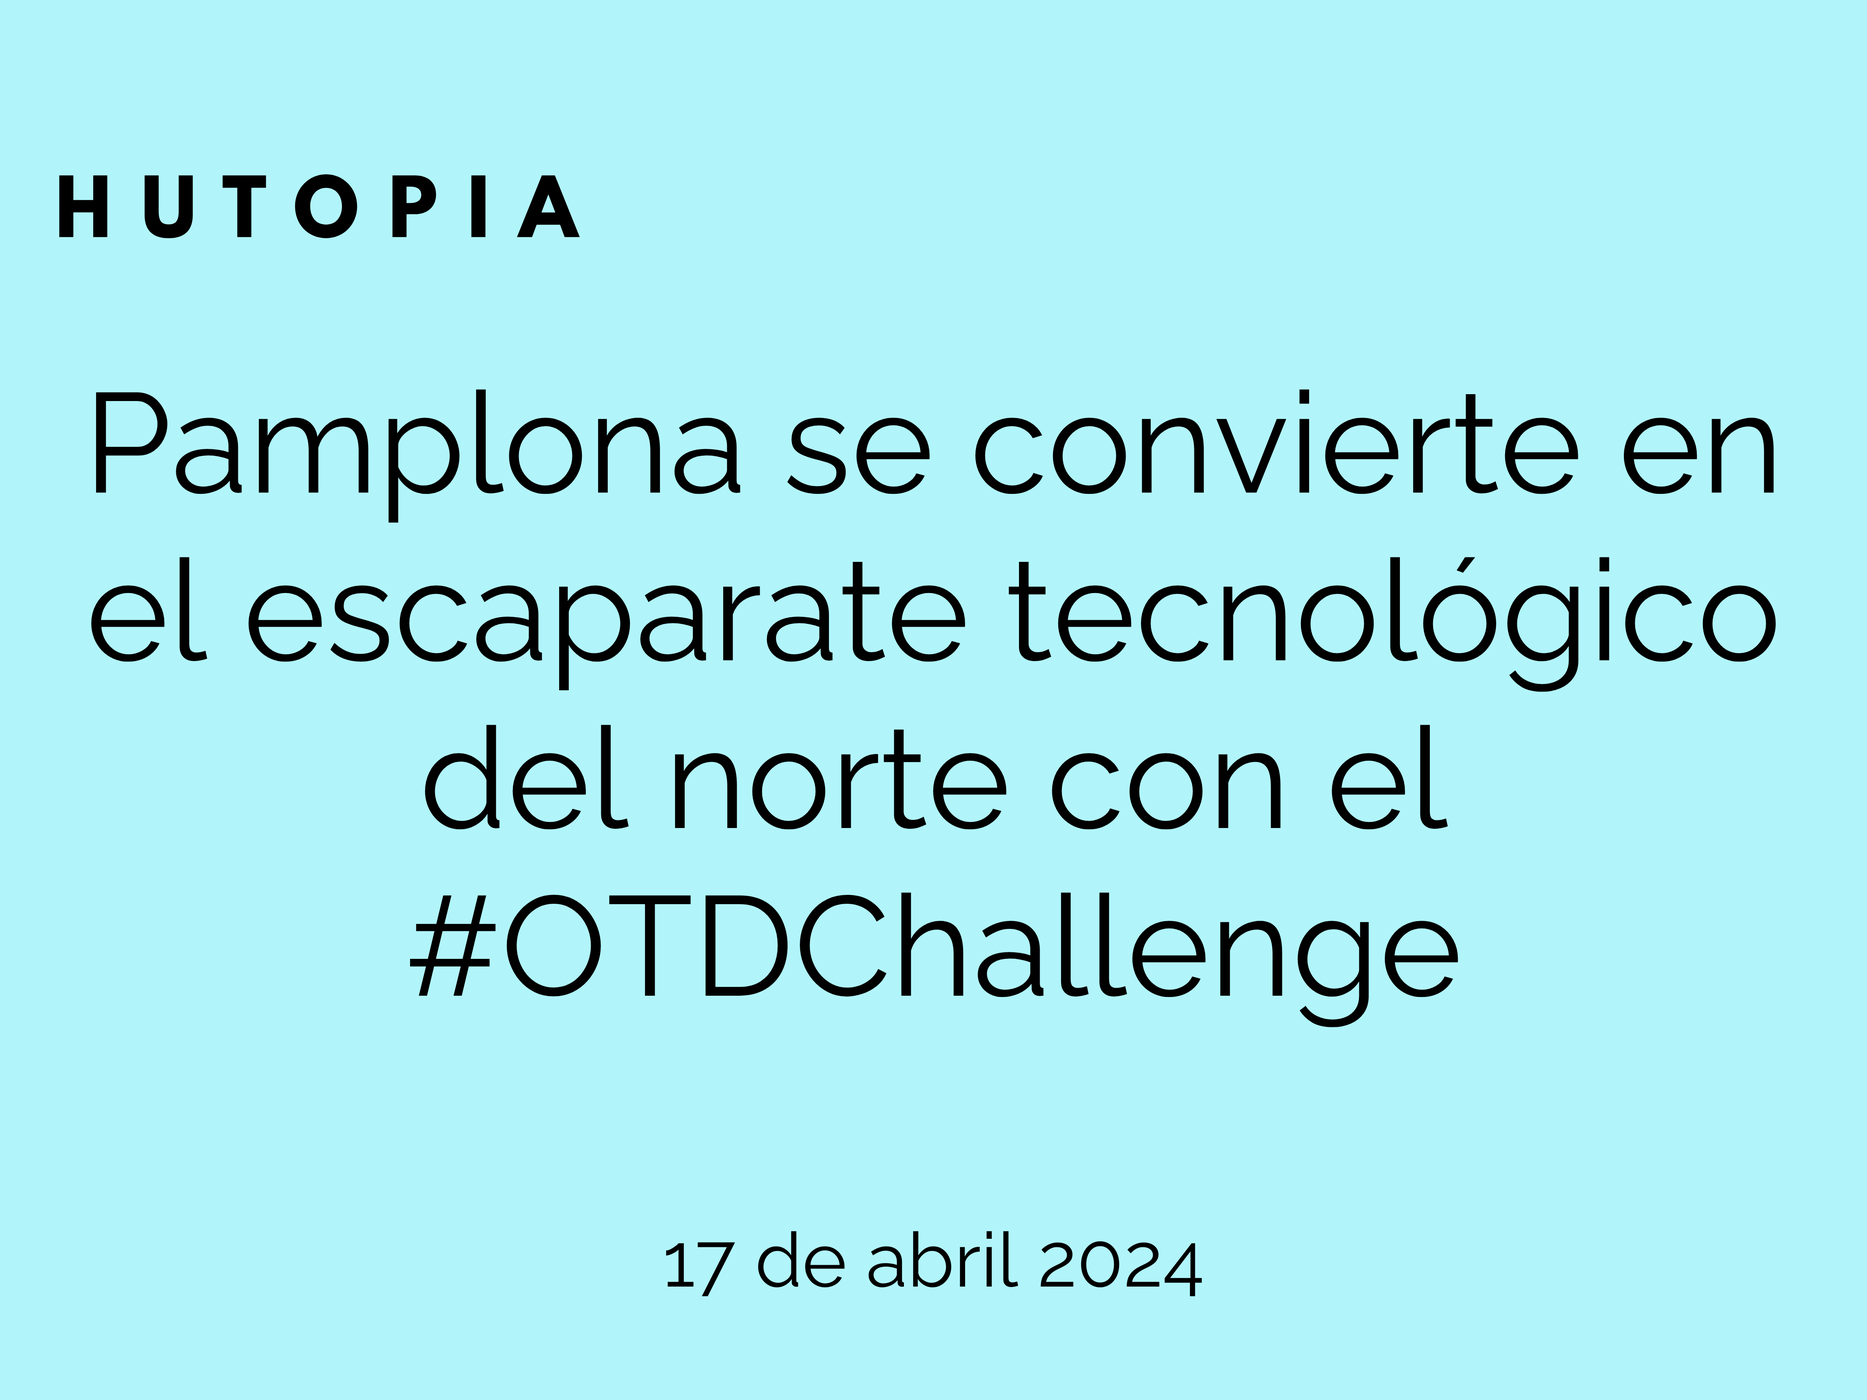
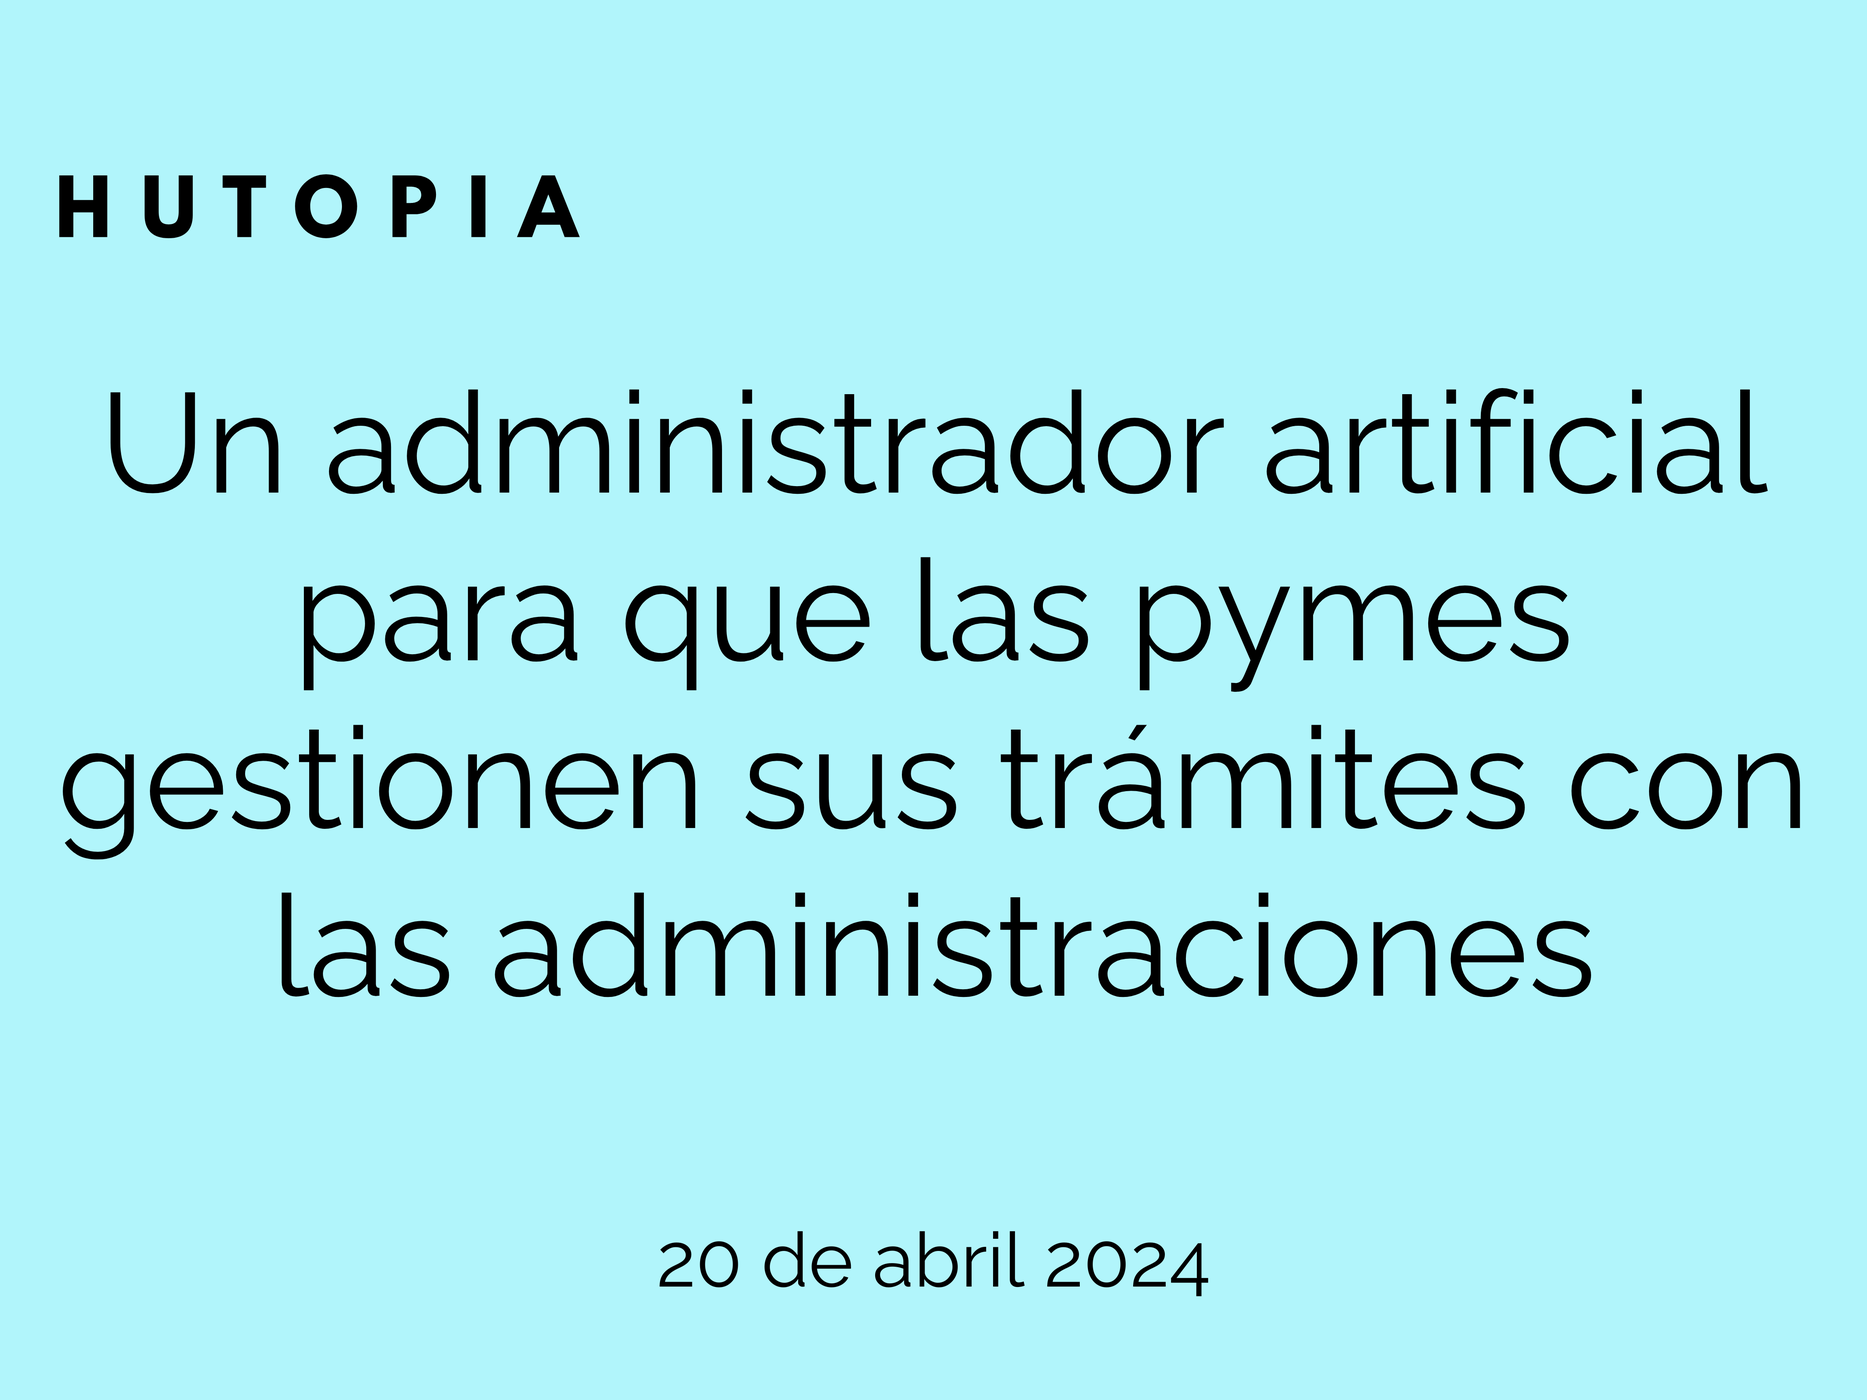
bubble 21

diff --git a/bub.21.html b/bub.21.html
@@ -1,0 +1,330 @@
+<!doctype html>
+<html lang="es">
+    <head>
+        <meta charset="UTF-8">
+        <script src="https://kit.fontawesome.com/e4e5d6c1ee.js" crossorigin="anonymous"></script>
+        <title>HUTOPIA</title>
+        <link href="imagenes/PORFIN.svg" rel="shortcut icon">
+        <link href="imagenes/PORFIN.svg" rel="apple-touch-icon-precomposed">
+        <meta name="description" content="Una red humana para saltar al abismo de la Inteligencia Artificial"/>
+        <link rel="alternate" type="application/rss+xml" title="Feed de HUTOPIA" href="historias.xml">
+        <link rel="icon" href="imagenes/PORFIN.svg" sizes="32x32"/>
+        <link rel="icon" href="imagenes/PORFIN.svg" sizes="192x192"/>
+        <link rel="apple-touch-icon" href="imagenes/PORFIN.svg"/>
+        <meta name="msapplication-TileImage" content="imagenes/Logoicon.gif"/>
+          <link href="1.css" rel="stylesheet"/>
+      <link rel="preconnect" href="https://fonts.googleapis.com">
+<link rel="preconnect" href="https://fonts.gstatic.com" crossorigin>
+<link href="https://fonts.googleapis.com/css2?family=Raleway:ital,wght@0,100;1,100&display=swap" rel="stylesheet">
+        <script id="thesu-ready">
+            window.advanced_ads_ready = function(e, a) {
+                a = a || "complete";
+                var d = function(e) {
+                    return "interactive" === a ? "loading" !== e : "complete" === e
+                };
+                d(document.readyState) ? e() : document.addEventListener("readystatechange", (function(a) {
+                    d(a.target.readyState) && e()
+                }
+                ), {
+                    once: "interactive" === a
+                })
+            }
+            ,
+            window.advanced_ads_ready_queue = window.advanced_ads_ready_queue || [];
+        </script>
+
+<link rel="stylesheet" id="google-fonts-1-css" href="https://fonts.googleapis.com/css?family=Merriweather%3A100%2C100italic%2C200%2C200italic%2C300%2C300italic%2C400%2C400italic%2C500%2C500italic%2C600%2C600italic%2C700%2C700italic%2C800%2C800italic%2C900%2C900italic%7CMerriweather+Sans%3A100%2C100italic%2C200%2C200italic%2C300%2C300italic%2C400%2C400italic%2C500%2C500italic%2C600%2C600italic%2C700%2C700italic%2C800%2C800italic%2C900%2C900italic&#038;display=auto&#038;ver=6.4.3" media="all"/>
+<link rel="preconnect" href="https://fonts.gstatic.com/" crossorigin>
+      
+<script type="text/javascript" src="js/jquery.js" id="jquery-js"></script>
+        
+        
+<script type="text/javascript" src="https://thesummerhunter.com/wp-content/themes/thesummerhunter/js/lib/conditionizr-4.3.0.min.js?ver=4.3.0" id="conditionizr-js"></script>
+<script type="text/javascript" src="https://thesummerhunter.com/wp-content/themes/thesummerhunter/js/lib/modernizr-2.7.1.min.js?ver=2.7.1" id="modernizr-js"></script>
+
+     
+        
+        <script>
+            // conditionizr.com
+            // configure environment tests
+            conditionizr.config({
+                assets: '',
+                tests: {}
+            });
+        </script>
+    </head>
+    
+<!--    CUERPO DE LA PÁGINA-->
+    
+    <body>
+        
+        <div class="nav ">
+            <div class="col-12 center header-content">
+                <div class="col"></div>
+                <div class="col">
+                    <a class="header-logo" href="http://hutopia.es/">
+                        <img class="logo" src="imagenes/PORFIN.svg" alt>
+                    </a>
+                </div>
+                <div class="col"></div>
+            </div>
+        </div>
+<!-- ************************* ----->
+       <div class="menu-button"> <i class="fas fa-bars" style="color: whitesmoke;"></i> </div>
+        <div class="toggle-menu">
+            <div class="mainmenu">
+                <ul id="menu-toggle-top-menu" class="menu">
+                     <li id="vibes" class="menu-item">
+                        <a href="drops.html" target="_blank" >Drops</a>
+                    </li>
+                    <li id="people" class="menu-item">
+                        <a href="wavemakersurfers.html" target="_blank" >Wavemakers &amp; Surfers </a>
+                    </li>
+                    <li id="webstories" class="menu-item">
+                        <a href="bubbles.html" target="_blank" >Bubbles</a>
+                    </li>
+                    <li id="featured" class="menu-item">
+                        <a href="https://open.spotify.com/show/5B7fNyyHK2rpHDeorWufm5" target="_blank" >The Shore</a> </li>
+                    <li id="metaverse" class="menu-item">  <a href="https://www.roblox.com/games/16499004495/" target="_blank" > The Reef</a></li>
+<li id="menu-item-12934" class="menu-item menu-item-type-taxonomy menu-item-object-category menu-item-12933">
+            <a href="pearls.html" target="_blank">Pearls</a></li>
+
+                </ul>
+            </div>
+<div class="col-md-3">
+    <ul class="menu-header social">
+        <li class="social-media">
+            <a href="https://www.instagram.com/hutopia.es?utm_source=ig_web_button_share_sheet&igsh=ZDNlZDc0MzIxNw==" target="_blank" rel="noopener noreferrer">
+                <i class="fab fa-instagram"></i>
+            </a>
+        </li>
+        <li class="social-media">
+            <a href="https://open.spotify.com/show/5B7fNyyHK2rpHDeorWufm5" target="_blank" rel="noopener noreferrer">
+                <i class="fab fa-spotify"></i>
+            </a>
+        </li>
+        <li class="social-media">
+            <a href="https://www.linkedin.com/company/hutopia.es/" target="_blank" rel="noopener noreferrer">
+                <i class="fab fa-linkedin"></i>
+            </a>
+        </li>
+        <li class="social-media">
+            <a href="https://www.facebook.com/profile.php?id=61557282760796 " target="_blank" rel="noopener noreferrer"><i class="fab fa-facebook"></i></a>
+        </li>
+        <li class="social-media">
+            <a href="https://www.tiktok.com/@hutopia.es?is_from_webapp=1&sender_device=pc" target="_blank" rel="noopener noreferrer"><i class="fab fa-tiktok"></i></a>
+        </li>
+        <li class="social-media">
+            <a href="https://x.com/Hutopia_es?s=20" target="_blank" rel="noopener noreferrer"><i class="fa-brands fa-x-twitter"></i></a>
+        </li> 
+    </ul>
+</div>
+        </div>
+  
+<!-- ************************************************************************************************************************************************-->
+            
+<!--<! ---_____________________________ LARGO REPORTAJE _________________________ --->
+            
+<h1 class="col-12 justify-content-center align-items-center" style="margin-top: 230px; font-family: 'Raleway'; line-height: 50px">
+    <span style="font-size: 50px; font-weight: 600">Un administrador artificial para que las pymes gestionen sus trámites con las administraciones
+</span>
+</h1>
+<div class="contenidoprincipal"> 
+    <div class="align-items-center">
+       <p style="font-family: Raleway; font-weight: 600; color: #5284a3; text-align: center">El ministro de Economía, Comercio y Empresa, Carlos Cuerpo, anuncia que el Gobierno español utilizará la IA para potenciar el crecimiento de estas empresas
+</p>
+        </div>
+     
+     <br>
+       
+       <div style="display: flex; align-items: center;">
+           <div class="align-items-left" style="margin-right: 10px;">
+        <figure style="margin: 0;">
+            <img src="Avatar/redacarantxa.JPG" style="width: 70px; height: 100px; margin: 0;">
+        </figure>
+    </div>
+    <div class="align-items-right" style="margin-left: 10px;">
+        <p style="font-family: Raleway, sans-serif; margin: 0; text-align: left;"><strong>Arantxa García</strong></p>
+        <place style="font-family: Raleway, sans-serif; margin: 0;">Madrid |</place>
+        <publishedDate style="font-family: Raleway, sans-serif; margin: 0;">20 de abril de 2024</publishedDate>
+    </div>
+
+    <!-- Red social -->
+    <ul style="list-style: none; display: flex; margin-left: auto; padding: 0;">
+        <li class="social-media">
+            <a href="https://www.facebook.com/profile.php?id=61557282760796" target="_blank" rel="noopener noreferrer">
+                <i class="fab fa-facebook"></i>
+            </a>
+        </li>
+        <li class="social-media">
+            <a href="https://www.linkedin.com/company/hutopia.es/" target="_blank" rel="noopener noreferrer">
+                <i class="fab fa-linkedin"></i>
+            </a>
+        </li>
+        <li class="social-media">
+            <a href="https://open.spotify.com/show/5B7fNyyHK2rpHDeorWufm5" target="_blank" rel="noopener noreferrer">
+                <i class="fab fa-spotify"></i>
+            </a>
+        </li>
+        <li class="social-media">
+            <a href="https://www.instagram.com/hutopia.es?utm_source=ig_web_button_share_sheet&igsh=ZDNlZDc0MzIxNw==" target="_blank" rel="noopener noreferrer">
+                <i class="fab fa-instagram"></i>
+            </a>
+        </li>
+        <li class="social-media">
+            <a href="https://x.com/Hutopia_es?s=20" target="_blank" rel="noopener noreferrer">
+                <i class="fab fa-twitter"></i>
+            </a>
+        </li>
+        <li class="social-media">
+            <a href="https://www.tiktok.com/@hutopia.es?is_from_webapp=1&sender_device=pc" target="_blank" rel="noopener noreferrer">
+                <i class="fab fa-tiktok"></i>
+            </a>
+        </li>
+    </ul>
+</div>
+
+    <hr style="margin-bottom: 10px">  
+
+<p style="margin-top: 45px"> <span class="capitular"> C</span>on motivo de la última reunión de ministros de <strong>Economía y Finanzas de la Unión Europea (UE)</strong>, el ministro español de Economía, Comercio y Empresa,<strong> Carlos Cuerpo</strong>, anunció la intención del Ejecutivo central de promover el uso de la <strong>Inteligencia Artificial (IA)</strong> para “potenciar la competitividad y el crecimiento de las pequeñas y medianas empresas (pymes)”.</p>
+
+ <p>Gracias “a la implementación ética y responsable de la IA”, las pymes podrán beneficiarse de un <strong>administrador artificial</strong>, que asumirá la responsabilidad de manejar los procedimientos y las comunicaciones con las administraciones para que estas empresas “se enfoquen en su actividad principal”. La herramienta, según indicó, tiene el potencial de “incrementar la productividad” en diversos sectores económicos. </p>
+        
+<p>La propuesta está dirigida a promover el uso de esta tecnología para facilitar el cumplimiento de las normas y trámites nacionales en la UE. "España confía en que la UE pueda aprovechar la oportunidad de las tecnologías transformadoras para reforzar su competitividad ante un mundo cada vez más fragmentado", señaló el ministro. </p>
+    
+<p>El proyecto nace de la colaboración entre el <strong>Ministerio de Economía, Comercio y Empresa y el Ministerio para la Transformación Digital y de la Función Pública</strong>. E implica la cooperación entre la administración y empresas líderes en tecnología para introducir modelos de IA en las pymes. Esta iniciativa ofrecerá, según Moncloa, “una solución a corto plazo que podría significar una reducción significativa de los costes administrativos”. “El <strong>Mecanismo de Recuperación y Resiliencia</strong> brinda una oportunidad ideal para experimentar con la nueva tecnología. La IA puede agilizar la ejecución del Fondo de Recuperación, satisfaciendo así la necesidad empresarial de disminuir los obstáculos administrativos vinculados a este instrumento”, valoró el Ejecutivo español.   </p>
+
+        <p> <span class="ladillo">LA IMPORTANCIA DE LAS PYMES </span></p>
+
+<p>Las pymes representan el 99 % del tejido empresarial europeo y dan empleo a más de 100 millones de personas. Pero, a pesar de haberse puesto en marcha otras iniciativas para ellas como la agenda <strong>"Legislar Mejor"</strong> de la <strong>Comisión Europea</strong>, enfocada a mejorar su competitividad, estas compañías continúan afrontando importantes desafíos a la hora de expandirse, obtener financiación y adaptarse a las demandas de la sostenibilidad y la digitalización. </p>
+     
+<p>Para ser efectiva, la nueva herramienta necesitará contar con estándares comunes que “garanticen la replicabilidad entre los proveedores de servicios”. Además, se le proveerá de formación con el fin de que desarrolle las habilidades y recursos necesarios “para adoptar y utilizar soluciones de IA de forma más eficiente”. Todo ello “bajo un seguimiento de las autoridades”.   </p>
+<br>
+<br>
+        <hr style="width: 350px; border-color: #b4e7f8">  
+        <div class="align-items-center">
+        <a href="bubbles.html" target="_blank"> <span style="font-family: Raleway"><strong>+</strong></span></a>
+        </div>
+        </div>
+    
+<!-- FOOTER | PIE DE PÁGINA -->
+    
+    <section>
+    <div class="row footer align-items-center center">
+    <div class="col-md-3"> <img class="logo" src="imagenes/PORFIN.svg" alt=""></div>
+    
+    <div class="col-md-6"><ul id="menu-footer" class="menu-footer">
+         <li id="menu-item-12930" class="menu-item menu-item-type-custom menu-item-object-custom current-menu-item current_page_item menu-item-home menu-item-12930"><a href="index.html" aria-current="page">Home</a></li>
+        <li id="menu-item-12932" class="menu-item menu-item-type-taxonomy menu-item-object-category menu-item-12932">
+            <a href="horizon.html" target="_blank" >Horizon</a></li>
+         <li id="menu-item-12931" class="menu-item menu-item-type-taxonomy menu-item-object-category menu-item-12931">
+            <a href="tripulacion.html" target="_blank" >The Crew</a></li>
+        <li id="menu-item-12933" class="menu-item menu-item-type-taxonomy menu-item-object-category menu-item-12933">
+            <a href="newsletter.hmtl" target="_blank" >Newsletter</a></li>
+       <li id="menu-item-12934" class="menu-item menu-item-type-taxonomy menu-item-object-category menu-item-12933">
+            <a href="pearls.html" target="_blank">Pearls</a></li>
+
+        </ul>
+    </div>
+    
+<div class="col-md-3">
+    <ul class="menu-footer social">
+        <li class="social-media">
+            <a href="https://www.instagram.com/hutopia.es?utm_source=ig_web_button_share_sheet&igsh=ZDNlZDc0MzIxNw==" target="_blank" rel="noopener noreferrer">
+                <i class="fab fa-instagram"></i>
+            </a>
+        </li>
+        <li class="social-media">
+            <a href="https://open.spotify.com/show/5B7fNyyHK2rpHDeorWufm5" target="_blank" rel="noopener noreferrer">
+                <i class="fab fa-spotify"></i>
+            </a>
+        </li>
+        <li class="social-media">
+            <a href="https://www.linkedin.com/company/hutopia.es/" target="_blank" rel="noopener noreferrer">
+                <i class="fab fa-linkedin"></i>
+            </a>
+        </li>
+        <li class="social-media">
+            <a href="https://www.facebook.com/profile.php?id=61557282760796 " target="_blank" rel="noopener noreferrer"><i class="fab fa-facebook"></i></a>
+        </li>
+        <li class="social-media">
+            <a href="https://www.tiktok.com/@hutopia.es?is_from_webapp=1&sender_device=pc" target="_blank" rel="noopener noreferrer"><i class="fab fa-tiktok"></i></a>
+        </li>
+        <li class="social-media">
+            <a href="https://x.com/Hutopia_es?s=20" target="_blank" rel="noopener noreferrer"><i class="fa-brands fa-x-twitter"></i></a>
+        </li> 
+    </ul>
+    </div>
+        </div>
+         </section>
+        
+<!--    *****ARCHIVOS JAVA*****        -->
+        <script>
+            jQuery('.epu-close, .epu-mask, .epu-rejection, .epu-question').click(function() {
+                jQuery('.epu, .epu-mask').remove();
+                Cookies.set('epu-abandono-pagina', 'dismissed', {
+                    expires: 1
+                });
+            });
+
+            jQuery(document).mouseleave(function() {
+                jQuery('.epu, .epu-mask').css('display', 'block');
+            });
+        </script>
+        <script type="text/javascript">
+            const lazyloadRunObserver = ()=>{
+                const dataAttribute = 'data-e-bg-lazyload';
+                const lazyloadBackgrounds = document.querySelectorAll(`[${dataAttribute}]:not(.lazyloaded)`);
+                const lazyloadBackgroundObserver = new IntersectionObserver((entries)=>{
+                    entries.forEach((entry)=>{
+                        if (entry.isIntersecting) {
+                            let lazyloadBackground = entry.target;
+                            const lazyloadSelector = lazyloadBackground.getAttribute(dataAttribute);
+                            if (lazyloadSelector) {
+                                lazyloadBackground = entry.target.querySelector(lazyloadSelector);
+                            }
+                            if (lazyloadBackground) {
+                                lazyloadBackground.classList.add('lazyloaded');
+                            }
+                            lazyloadBackgroundObserver.unobserve(entry.target);
+                        }
+                    }
+                    );
+                }
+                ,{
+                    rootMargin: '100px 0px 100px 0px'
+                });
+                lazyloadBackgrounds.forEach((lazyloadBackground)=>{
+                    lazyloadBackgroundObserver.observe(lazyloadBackground);
+                }
+                );
+            }
+            ;
+            const events = ['DOMContentLoaded', 'elementor/lazyload/observe', ];
+            events.forEach((event)=>{
+                document.addEventListener(event, lazyloadRunObserver);
+            }
+            );
+        </script>
+  <!--/**/-->
+        <script type="text/javascript" src="js/flickity.js" id="flickity-js"></script>
+    
+       <script type="text/javascript" src="js/lazyload.js" id="lazyload-js"></script>
+        
+       <script type="text/javascript" src="js/js.js" id="html5blankscripts-js"></script>
+       
+       <script type="text/javascript" src="js/slick.js" id="slick-js"></script>
+        
+       <script type="text/javascript" src="js/custom.js" id="custom-js"></script> 
+        
+             
+        <script type="text/javascript" src="js/load.more.js" id="load_more_webstories-js"></script>
+        
+  <!--/**/-->       
+           
+    </body>
+</html>
+
+
+
+
